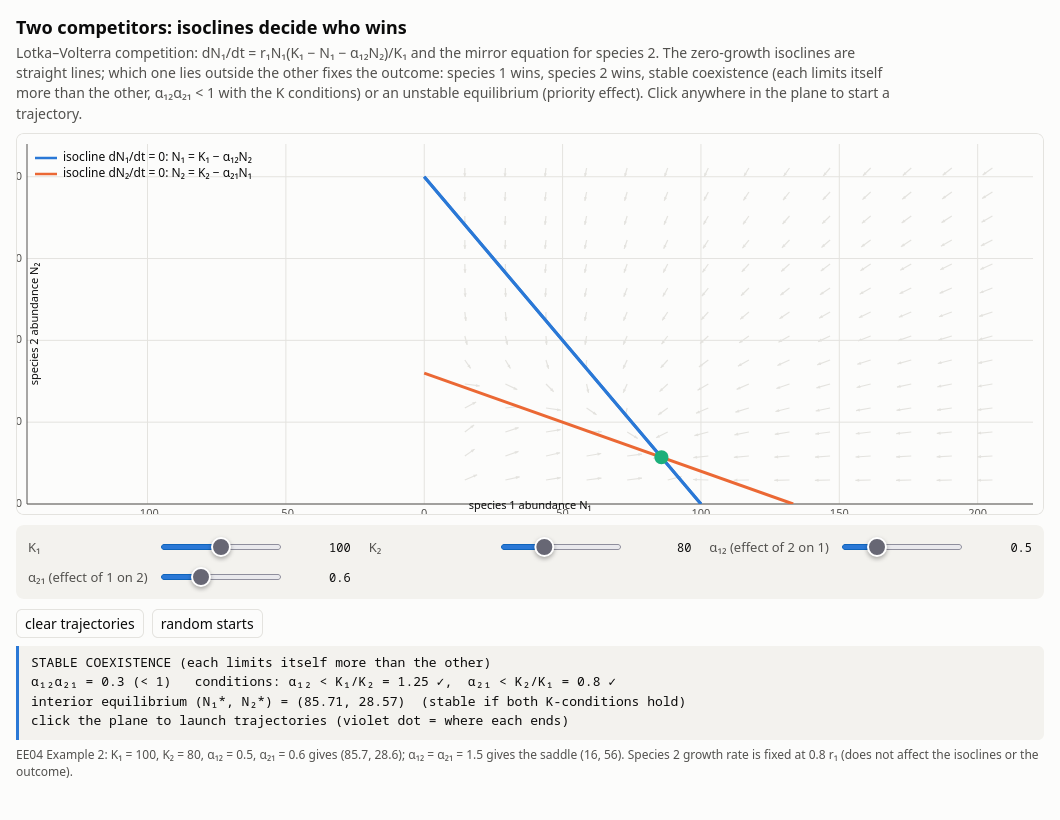
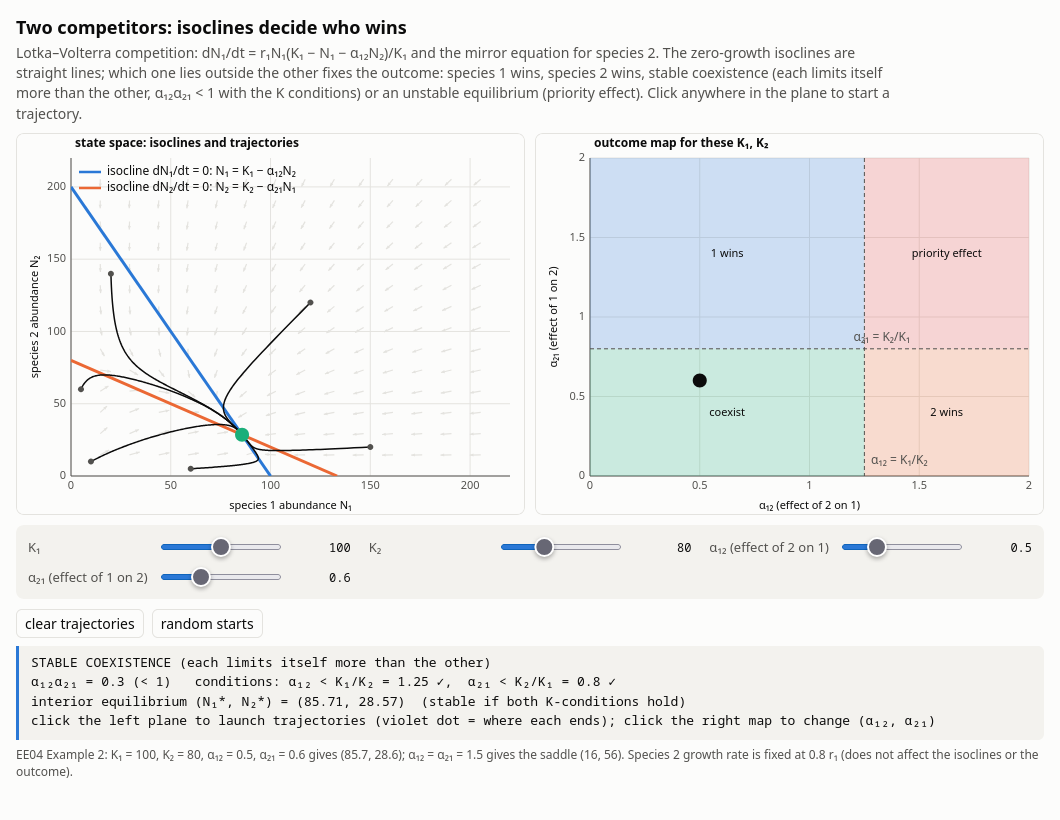
notes: 2026-11-07 05:37

diff --git a/Assets/interactive/ee_competition.html b/Assets/interactive/ee_competition.html
@@ -104,18 +104,18 @@ window.addEventListener('error',e=>{const d=document.createElement('div');d.clas
 
 (function(){
 const META={"title": "Two competitors: isoclines decide who wins", "desc": "Lotka\u2013Volterra competition: dN\u2081/dt = r\u2081N\u2081(K\u2081 \u2212 N\u2081 \u2212 \u03b1\u2081\u2082N\u2082)/K\u2081 and the mirror equation for species 2. The zero-growth isoclines are straight lines; which one lies outside the other fixes the outcome: species 1 wins, species 2 wins, stable coexistence (each limits itself more than the other, \u03b1\u2081\u2082\u03b1\u2082\u2081 < 1 with the K conditions) or an unstable equilibrium (priority effect). Click anywhere in the plane to start a trajectory.", "vault": "EE", "chapters": ["EE04 Competition and Invasions"], "tryit": "K\u2081 = 100, K\u2082 = 80, \u03b1\u2081\u2082 = 0.5, \u03b1\u2082\u2081 = 0.6 \u2192 stable coexistence at (85.7, 28.6). Set both \u03b1 = 1.5 \u2192 saddle at (16, 56): click on either side of the separatrix and watch the winner change.", "id": "ee_competition"};ui.init(META.title,META.desc);
-ui.gridOf(1);const P=ui.canvas(380,{xmin:0,xmax:160,ymin:0,ymax:160,xlabel:'species 1 abundance N₁',ylabel:'species 2 abundance N₂',equal:true});
+ui.gridOf(2);const P=ui.canvas(380,{xmin:0,xmax:160,ymin:0,ymax:160,xlabel:'species 1 abundance N₁',ylabel:'species 2 abundance N₂',title:'state space: isoclines and trajectories'});const Q=ui.canvas(380,{xmin:0,xmax:2,ymin:0,ymax:2,xlabel:'α₁₂ (effect of 2 on 1)',ylabel:'α₂₁ (effect of 1 on 2)',title:'outcome map for these K₁, K₂'});
 const sK1=ui.slider('K₁',40,160,1,100,reset),sK2=ui.slider('K₂',40,160,1,80,reset),s12=ui.slider('α₁₂ (effect of 2 on 1)',0,2,0.01,0.5,reset),s21=ui.slider('α₂₁ (effect of 1 on 2)',0,2,0.01,0.6,reset);
 ui.button('clear trajectories',()=>{trs=[]});ui.button('random starts',()=>{const r=M.rng(Math.floor(Math.random()*1e6));for(let i=0;i<8;i++)addTr(r()*150+5,r()*150+5)});
 const out=ui.readout();let trs=[];
 function f(K1,K2,a12,a21){return(t,y)=>[y[0]*(K1-y[0]-a12*y[1])/K1,0.8*y[1]*(K2-y[1]-a21*y[0])/K2]}
 function addTr(x,y0){const K1=sK1.value,K2=sK2.value,a12=s12.value,a21=s21.value;let y=[x,y0],pts=[[...y]],t=0;const fn=f(K1,K2,a12,a21);for(let i=0;i<2500;i++){y=M.rk4(fn,y,t,0.05);t+=0.05;pts.push([...y]);if(i>2000&&Math.hypot(...fn(0,y))<1e-4)break}trs.push(pts)}
-function reset(){trs=[];draw()}
-P.c.addEventListener('click',e=>{const r=P.c.getBoundingClientRect(),px=e.clientX-r.left,py=e.clientY-r.top;const x=P.invX?P.invX(px):P.o.xmin+(px-P.o.ml)/(P.w-P.o.ml-P.o.mr)*(P.o.xmax-P.o.xmin),y=P.invY?P.invY(py):P.o.ymax-(py-P.o.mt)/(P.h-P.o.mt-P.o.mb)*(P.o.ymax-P.o.ymin);if(x>0&&y>0){addTr(x,y);draw()}});
+function reset(){trs=[];[[10,10],[150,20],[20,140],[120,120],[60,5],[5,60]].forEach(p=>addTr(p[0],p[1]));draw()}
+P.c.addEventListener('click',e=>{const r=P.c.getBoundingClientRect(),x=P.ix(e.clientX-r.left),y=P.iy(e.clientY-r.top);if(x>0&&y>0){addTr(x,y);draw()}});
+Q.c.addEventListener('click',e=>{const r=Q.c.getBoundingClientRect();s12.value=Math.max(0,Math.min(2,Q.ix(e.clientX-r.left)));s21.value=Math.max(0,Math.min(2,Q.iy(e.clientY-r.top)));reset()});
 function draw(){const K1=sK1.value,K2=sK2.value,a12=s12.value,a21=s21.value;const top=Math.max(K1,K2,K1/Math.max(a12,0.01),K2/Math.max(a21,0.01),50);const lim=Math.min(300,top*1.1);P.set({xmax:lim,ymax:lim});P.clear();
  // vector field
  const fn=f(K1,K2,a12,a21);const nn=15;for(let i=1;i<nn;i++)for(let j=1;j<nn;j++){const x=lim*i/nn,y=lim*j/nn,d=fn(0,[x,y]),n=Math.hypot(d[0],d[1])||1;P.arrow(x,y,x+d[0]/n*lim*0.025,y+d[1]/n*lim*0.025,C.grid,1.2,4)}
- P.line([0,K1],[K1/a12,0].map((v,i)=>i?0:K1/Math.max(a12,1e-6)),C.blue,3);P.line([K1,0].slice(0,0),[],C.blue);
  P.line([0,K1],[K1/Math.max(a12,1e-6),0],C.blue,3);P.line([K2/Math.max(a21,1e-6),0],[0,K2],C.orange,3);
  trs.forEach(pts=>{P.line(pts.map(p=>p[0]),pts.map(p=>p[1]),C.ink,1.5);P.dot(pts[0][0],pts[0][1],C.muted,3);const e=pts[pts.length-1];P.dot(e[0],e[1],C.violet,4)});
  // equilibria
@@ -123,8 +123,12 @@ function draw(){const K1=sK1.value,K2=sK2.value,a12=s12.value,a21=s21.value;cons
  let kind;const c1=K1<K2/Math.max(a21,1e-9),c2=K2<K1/Math.max(a12,1e-9);if(c1&&c2)kind='STABLE COEXISTENCE (each limits itself more than the other)';else if(!c1&&!c2)kind='UNSTABLE interior equilibrium: priority effect, the start decides';else if(!c1&&c2)kind='SPECIES 1 WINS';else kind='SPECIES 2 WINS';
  P.legend([['isocline dN₁/dt = 0: N₁ = K₁ − α₁₂N₂',C.blue],['isocline dN₂/dt = 0: N₂ = K₂ − α₂₁N₁',C.orange]],P.o.ml+8,P.o.mt+14);
  if(N1s!==null&&N1s>0&&N2s>0)P.dot(N1s,N2s,D>0?C.aqua:C.red,7);
- out.textContent=`${kind}\nα₁₂α₂₁ = ${M.fmt(a12*a21,3)} (${a12*a21<1?'<':'>'} 1)   conditions: α₁₂ < K₁/K₂ = ${M.fmt(K1/K2,3)} ${a12<K1/K2?'✓':'✗'},  α₂₁ < K₂/K₁ = ${M.fmt(K2/K1,3)} ${a21<K2/K1?'✓':'✗'}\n${N1s!==null&&N1s>0&&N2s>0?'interior equilibrium (N₁*, N₂*) = ('+M.fmt(N1s,4)+', '+M.fmt(N2s,4)+')  '+(D>0?'(stable if both K-conditions hold)':'(saddle)'):'no interior equilibrium'}\nclick the plane to launch trajectories (violet dot = where each ends)`}
-draw();ui.note('EE04 Example 2: K₁ = 100, K₂ = 80, α₁₂ = 0.5, α₂₁ = 0.6 gives (85.7, 28.6); α₁₂ = α₂₁ = 1.5 gives the saddle (16, 56). Species 2 growth rate is fixed at 0.8 r₁ (does not affect the isoclines or the outcome).');
+ drawMap(K1,K2,a12,a21);
+ out.textContent=`${kind}\nα₁₂α₂₁ = ${M.fmt(a12*a21,3)} (${a12*a21<1?'<':'>'} 1)   conditions: α₁₂ < K₁/K₂ = ${M.fmt(K1/K2,3)} ${a12<K1/K2?'✓':'✗'},  α₂₁ < K₂/K₁ = ${M.fmt(K2/K1,3)} ${a21<K2/K1?'✓':'✗'}\n${N1s!==null&&N1s>0&&N2s>0?'interior equilibrium (N₁*, N₂*) = ('+M.fmt(N1s,4)+', '+M.fmt(N2s,4)+')  '+(D>0?'(stable if both K-conditions hold)':'(saddle)'):'no interior equilibrium'}\nclick the left plane to launch trajectories (violet dot = where each ends); click the right map to change (α₁₂, α₂₁)`}
+function drawMap(K1,K2,a12,a21){Q.clear();const g=Q.g,c1=K2/K1,c2=K1/K2;const R=(x0,x1,y0,y1,col,lab)=>{g.fillStyle=col;g.globalAlpha=0.22;g.fillRect(Q.X(x0),Q.Y(y1),Q.X(x1)-Q.X(x0),Q.Y(y0)-Q.Y(y1));g.globalAlpha=1;Q.text(lab,(x0+x1)/2,(y0+y1)/2,C.ink,'center','11px system-ui')};
+ const x1=Math.min(2,c2),y1=Math.min(2,c1);R(0,x1,0,y1,C.aqua,'coexist');R(0,x1,y1,2,C.blue,'1 wins');R(x1,2,0,y1,C.orange,'2 wins');R(x1,2,y1,2,C.red,'priority effect');
+ Q.vline(c2,C.muted);Q.hline(c1,C.muted);Q.dot(a12,a21,C.ink,7);Q.text('α₁₂ = K₁/K₂',c2+0.03,0.1,C.muted);Q.text('α₂₁ = K₂/K₁',1.2,c1+0.07,C.muted)}
+reset();ui.note('EE04 Example 2: K₁ = 100, K₂ = 80, α₁₂ = 0.5, α₂₁ = 0.6 gives (85.7, 28.6); α₁₂ = α₂₁ = 1.5 gives the saddle (16, 56). Species 2 growth rate is fixed at 0.8 r₁ (does not affect the isoclines or the outcome).');
 
 })();
 </script></body></html>

diff --git a/scripts/interactive/tools/ee_competition.js b/scripts/interactive/tools/ee_competition.js
@@ -1,16 +1,16 @@
 //META {"title":"Two competitors: isoclines decide who wins","desc":"Lotka–Volterra competition: dN₁/dt = r₁N₁(K₁ − N₁ − α₁₂N₂)/K₁ and the mirror equation for species 2. The zero-growth isoclines are straight lines; which one lies outside the other fixes the outcome: species 1 wins, species 2 wins, stable coexistence (each limits itself more than the other, α₁₂α₂₁ < 1 with the K conditions) or an unstable equilibrium (priority effect). Click anywhere in the plane to start a trajectory.","vault":"EE","chapters":["EE04 Competition and Invasions"],"tryit":"K₁ = 100, K₂ = 80, α₁₂ = 0.5, α₂₁ = 0.6 → stable coexistence at (85.7, 28.6). Set both α = 1.5 → saddle at (16, 56): click on either side of the separatrix and watch the winner change."}
-ui.gridOf(1);const P=ui.canvas(380,{xmin:0,xmax:160,ymin:0,ymax:160,xlabel:'species 1 abundance N₁',ylabel:'species 2 abundance N₂',equal:true});
+ui.gridOf(2);const P=ui.canvas(380,{xmin:0,xmax:160,ymin:0,ymax:160,xlabel:'species 1 abundance N₁',ylabel:'species 2 abundance N₂',title:'state space: isoclines and trajectories'});const Q=ui.canvas(380,{xmin:0,xmax:2,ymin:0,ymax:2,xlabel:'α₁₂ (effect of 2 on 1)',ylabel:'α₂₁ (effect of 1 on 2)',title:'outcome map for these K₁, K₂'});
 const sK1=ui.slider('K₁',40,160,1,100,reset),sK2=ui.slider('K₂',40,160,1,80,reset),s12=ui.slider('α₁₂ (effect of 2 on 1)',0,2,0.01,0.5,reset),s21=ui.slider('α₂₁ (effect of 1 on 2)',0,2,0.01,0.6,reset);
 ui.button('clear trajectories',()=>{trs=[]});ui.button('random starts',()=>{const r=M.rng(Math.floor(Math.random()*1e6));for(let i=0;i<8;i++)addTr(r()*150+5,r()*150+5)});
 const out=ui.readout();let trs=[];
 function f(K1,K2,a12,a21){return(t,y)=>[y[0]*(K1-y[0]-a12*y[1])/K1,0.8*y[1]*(K2-y[1]-a21*y[0])/K2]}
 function addTr(x,y0){const K1=sK1.value,K2=sK2.value,a12=s12.value,a21=s21.value;let y=[x,y0],pts=[[...y]],t=0;const fn=f(K1,K2,a12,a21);for(let i=0;i<2500;i++){y=M.rk4(fn,y,t,0.05);t+=0.05;pts.push([...y]);if(i>2000&&Math.hypot(...fn(0,y))<1e-4)break}trs.push(pts)}
-function reset(){trs=[];draw()}
-P.c.addEventListener('click',e=>{const r=P.c.getBoundingClientRect(),px=e.clientX-r.left,py=e.clientY-r.top;const x=P.invX?P.invX(px):P.o.xmin+(px-P.o.ml)/(P.w-P.o.ml-P.o.mr)*(P.o.xmax-P.o.xmin),y=P.invY?P.invY(py):P.o.ymax-(py-P.o.mt)/(P.h-P.o.mt-P.o.mb)*(P.o.ymax-P.o.ymin);if(x>0&&y>0){addTr(x,y);draw()}});
+function reset(){trs=[];[[10,10],[150,20],[20,140],[120,120],[60,5],[5,60]].forEach(p=>addTr(p[0],p[1]));draw()}
+P.c.addEventListener('click',e=>{const r=P.c.getBoundingClientRect(),x=P.ix(e.clientX-r.left),y=P.iy(e.clientY-r.top);if(x>0&&y>0){addTr(x,y);draw()}});
+Q.c.addEventListener('click',e=>{const r=Q.c.getBoundingClientRect();s12.value=Math.max(0,Math.min(2,Q.ix(e.clientX-r.left)));s21.value=Math.max(0,Math.min(2,Q.iy(e.clientY-r.top)));reset()});
 function draw(){const K1=sK1.value,K2=sK2.value,a12=s12.value,a21=s21.value;const top=Math.max(K1,K2,K1/Math.max(a12,0.01),K2/Math.max(a21,0.01),50);const lim=Math.min(300,top*1.1);P.set({xmax:lim,ymax:lim});P.clear();
  // vector field
  const fn=f(K1,K2,a12,a21);const nn=15;for(let i=1;i<nn;i++)for(let j=1;j<nn;j++){const x=lim*i/nn,y=lim*j/nn,d=fn(0,[x,y]),n=Math.hypot(d[0],d[1])||1;P.arrow(x,y,x+d[0]/n*lim*0.025,y+d[1]/n*lim*0.025,C.grid,1.2,4)}
- P.line([0,K1],[K1/a12,0].map((v,i)=>i?0:K1/Math.max(a12,1e-6)),C.blue,3);P.line([K1,0].slice(0,0),[],C.blue);
  P.line([0,K1],[K1/Math.max(a12,1e-6),0],C.blue,3);P.line([K2/Math.max(a21,1e-6),0],[0,K2],C.orange,3);
  trs.forEach(pts=>{P.line(pts.map(p=>p[0]),pts.map(p=>p[1]),C.ink,1.5);P.dot(pts[0][0],pts[0][1],C.muted,3);const e=pts[pts.length-1];P.dot(e[0],e[1],C.violet,4)});
  // equilibria
@@ -18,5 +18,9 @@ function draw(){const K1=sK1.value,K2=sK2.value,a12=s12.value,a21=s21.value;cons
  let kind;const c1=K1<K2/Math.max(a21,1e-9),c2=K2<K1/Math.max(a12,1e-9);if(c1&&c2)kind='STABLE COEXISTENCE (each limits itself more than the other)';else if(!c1&&!c2)kind='UNSTABLE interior equilibrium: priority effect, the start decides';else if(!c1&&c2)kind='SPECIES 1 WINS';else kind='SPECIES 2 WINS';
  P.legend([['isocline dN₁/dt = 0: N₁ = K₁ − α₁₂N₂',C.blue],['isocline dN₂/dt = 0: N₂ = K₂ − α₂₁N₁',C.orange]],P.o.ml+8,P.o.mt+14);
  if(N1s!==null&&N1s>0&&N2s>0)P.dot(N1s,N2s,D>0?C.aqua:C.red,7);
- out.textContent=`${kind}\nα₁₂α₂₁ = ${M.fmt(a12*a21,3)} (${a12*a21<1?'<':'>'} 1)   conditions: α₁₂ < K₁/K₂ = ${M.fmt(K1/K2,3)} ${a12<K1/K2?'✓':'✗'},  α₂₁ < K₂/K₁ = ${M.fmt(K2/K1,3)} ${a21<K2/K1?'✓':'✗'}\n${N1s!==null&&N1s>0&&N2s>0?'interior equilibrium (N₁*, N₂*) = ('+M.fmt(N1s,4)+', '+M.fmt(N2s,4)+')  '+(D>0?'(stable if both K-conditions hold)':'(saddle)'):'no interior equilibrium'}\nclick the plane to launch trajectories (violet dot = where each ends)`}
-draw();ui.note('EE04 Example 2: K₁ = 100, K₂ = 80, α₁₂ = 0.5, α₂₁ = 0.6 gives (85.7, 28.6); α₁₂ = α₂₁ = 1.5 gives the saddle (16, 56). Species 2 growth rate is fixed at 0.8 r₁ (does not affect the isoclines or the outcome).');
+ drawMap(K1,K2,a12,a21);
+ out.textContent=`${kind}\nα₁₂α₂₁ = ${M.fmt(a12*a21,3)} (${a12*a21<1?'<':'>'} 1)   conditions: α₁₂ < K₁/K₂ = ${M.fmt(K1/K2,3)} ${a12<K1/K2?'✓':'✗'},  α₂₁ < K₂/K₁ = ${M.fmt(K2/K1,3)} ${a21<K2/K1?'✓':'✗'}\n${N1s!==null&&N1s>0&&N2s>0?'interior equilibrium (N₁*, N₂*) = ('+M.fmt(N1s,4)+', '+M.fmt(N2s,4)+')  '+(D>0?'(stable if both K-conditions hold)':'(saddle)'):'no interior equilibrium'}\nclick the left plane to launch trajectories (violet dot = where each ends); click the right map to change (α₁₂, α₂₁)`}
+function drawMap(K1,K2,a12,a21){Q.clear();const g=Q.g,c1=K2/K1,c2=K1/K2;const R=(x0,x1,y0,y1,col,lab)=>{g.fillStyle=col;g.globalAlpha=0.22;g.fillRect(Q.X(x0),Q.Y(y1),Q.X(x1)-Q.X(x0),Q.Y(y0)-Q.Y(y1));g.globalAlpha=1;Q.text(lab,(x0+x1)/2,(y0+y1)/2,C.ink,'center','11px system-ui')};
+ const x1=Math.min(2,c2),y1=Math.min(2,c1);R(0,x1,0,y1,C.aqua,'coexist');R(0,x1,y1,2,C.blue,'1 wins');R(x1,2,0,y1,C.orange,'2 wins');R(x1,2,y1,2,C.red,'priority effect');
+ Q.vline(c2,C.muted);Q.hline(c1,C.muted);Q.dot(a12,a21,C.ink,7);Q.text('α₁₂ = K₁/K₂',c2+0.03,0.1,C.muted);Q.text('α₂₁ = K₂/K₁',1.2,c1+0.07,C.muted)}
+reset();ui.note('EE04 Example 2: K₁ = 100, K₂ = 80, α₁₂ = 0.5, α₂₁ = 0.6 gives (85.7, 28.6); α₁₂ = α₂₁ = 1.5 gives the saddle (16, 56). Species 2 growth rate is fixed at 0.8 r₁ (does not affect the isoclines or the outcome).');

diff --git a/scripts/interactive/tools/ee_predator_prey.js b/scripts/interactive/tools/ee_predator_prey.js
@@ -1,21 +1,22 @@
-//META {"title":"Predator–prey cycles: closed orbits and damped spirals","desc":"Lotka–Volterra: dH/dt = rH(1 − H/K) − pHP, dP/dt = apHP − mP. With K = ∞ (prey growth exponential) every orbit is a closed curve around (H*, P*) = (m/ap, r/p); a conserved quantity V labels them. Turn on a finite carrying capacity K and the centre becomes a stable spiral: the cycles damp. Left: phase plane with isoclines and the vector field; right: time series, with the predator peak lagging the prey peak.","vault":"EE","chapters":["EE05 Predation"],"tryit":"Defaults r=1, p=0.02, a=0.5, m=0.5 give (H*,P*) = (50,50) and period 8.9 for small cycles; the large orbit from (30,30) has period 9.25. Set K = 200: the equilibrium moves to (50, 37.5), eigenvalues −0.125 ± 0.60i. Double r: predators double, prey unchanged."}
+//META {"title":"Predator–prey cycles: closed orbits and damped spirals","desc":"Lotka–Volterra: dH/dt = rH(1 − H/K) − pHP, dP/dt = apHP − mP. With K = ∞ (prey growth exponential) every orbit is a closed curve around (H*, P*) = (m/ap, r/p); a conserved quantity V labels them. Turn on a finite carrying capacity K and the centre becomes a stable spiral: the cycles damp. Left: phase plane with isoclines and the vector field; right: time series, with the predator peak lagging the prey peak.","vault":"EE","chapters":["EE05 Predation"],"tryit":"Defaults r=1, p=0.02, a=0.5, m=0.5 give (H*,P*) = (50,50) and period 8.9 for small cycles; the large orbit from (30,30) has period 9.26. Set K = 200: the equilibrium moves to (50, 37.5), eigenvalues −0.125 ± 0.60i. Double r: predators double, prey unchanged."}
 ui.gridOf(2);const P1=ui.canvas(340,{xmin:0,xmax:140,ymin:0,ymax:140,xlabel:'prey H',ylabel:'predators P',title:'phase plane'});const P2=ui.canvas(340,{xmin:0,xmax:40,ymin:0,ymax:140,xlabel:'time',ylabel:'abundance',title:'time series'});
 const sr=ui.slider('prey growth r',0.2,2,0.01,1,restart),sp=ui.slider('predation p',0.005,0.05,0.001,0.02,restart),sa=ui.slider('conversion a',0.1,1,0.01,0.5,restart),sm=ui.slider('predator mortality m',0.1,1.5,0.01,0.5,restart),sK=ui.slider('prey carrying capacity K (0 = unlimited)',0,400,5,0,restart),sH=ui.slider('start H₀',5,140,1,30,restart),sP=ui.slider('start P₀',5,140,1,30,restart);
 const out=ui.readout();let traj=[],tmax=0,y,t;
 function f(t_,y_){const r=sr.value,p=sp.value,a=sa.value,m=sm.value,K=sK.value;const H=y_[0],P=y_[1];return[r*H*(K>0?1-H/K:1)-p*H*P,a*p*H*P-m*P]}
 function restart(){y=[sH.value,sP.value];t=0;traj=[[0,y[0],y[1]]]}
 restart();
-function draw(){const r=sr.value,p=sp.value,a=sa.value,m=sm.value,K=sK.value;const Hs=m/(a*p),Ps=K>0?r/p*(1-Hs/K):r/p;const mx=Math.max(140,Hs*2.2,...traj.map(q=>q[1])*1)*1.0,my=Math.max(140,Ps*2.2,...traj.map(q=>q[2]));
- P1.set({xmax:Math.max(140,Math.max(...traj.map(q=>q[1]))*1.1,Hs*2),ymax:Math.max(140,Math.max(...traj.map(q=>q[2]))*1.1,Ps*2)});P1.clear();
+function draw(){const r=sr.value,p=sp.value,a=sa.value,m=sm.value,K=sK.value;const Hs=m/(a*p),Ps=K>0?r/p*(1-Hs/K):r/p; P1.set({xmax:Math.max(140,Math.max(...traj.map(q=>q[1]))*1.1,Hs*2),ymax:Math.max(140,Math.max(...traj.map(q=>q[2]))*1.1,Ps*2)});P1.clear();
  // vector field
  const nx=14,ny=14;for(let i=1;i<nx;i++)for(let j=1;j<ny;j++){const H=P1.o.xmax*i/nx,P=P1.o.ymax*j/ny;const d=f(0,[H,P]);const n=Math.hypot(d[0]/P1.o.xmax,d[1]/P1.o.ymax)||1;const L=0.018;P1.arrow(H,P,H+d[0]/P1.o.xmax/n*L*P1.o.xmax,P+d[1]/P1.o.ymax/n*L*P1.o.ymax,C.grid,1.2,4)}
  // isoclines
- P1.vline(Hs,C.violet);if(K>0)P1.line([0,K],[r/p,0],C.aqua,2.2);else P1.hline(r/p,C.aqua,2.2);
+ P1.vline(Hs,C.violet);if(K>0)P1.line([0,K],[r/p,0],C.aqua,2.2);else P1.line([0,P1.o.xmax],[r/p,r/p],C.aqua,2.2);
  P1.line(traj.map(q=>q[1]),traj.map(q=>q[2]),C.blue,2.2);const e=traj[traj.length-1];P1.dot(e[1],e[2],C.orange,6);P1.dot(Hs,Ps,C.red,6);
  P1.legend([['predator isocline H = m/ap',C.violet],['prey isocline',C.aqua],['trajectory',C.blue]],P1.o.ml+8,P1.o.mt+14);
  P2.set({xmax:Math.max(40,t),ymax:Math.max(100,Math.max(...traj.map(q=>Math.max(q[1],q[2])))*1.1)});P2.clear();P2.line(traj.map(q=>q[0]),traj.map(q=>q[1]),C.blue,2.4);P2.line(traj.map(q=>q[0]),traj.map(q=>q[2]),C.orange,2.4);P2.legend([['prey H',C.blue],['predators P',C.orange]],P2.o.ml+8,P2.o.mt+14);
  const V=a*p*e[1]-m*Math.log(e[1])+p*e[2]-r*Math.log(e[2]);
  let eig='';if(K>0){const tr=-r*Hs/K,det=a*p*p*Hs*Ps;const disc=tr*tr-4*det;eig=disc<0?`eigenvalues ${M.fmt(tr/2,4)} ± ${M.fmt(Math.sqrt(-disc)/2,4)} i (damped spiral, amplitude halves every ${M.fmt(Math.log(2)/Math.abs(tr/2),3)})`:`eigenvalues ${M.fmt((tr+Math.sqrt(disc))/2,4)}, ${M.fmt((tr-Math.sqrt(disc))/2,4)} (node)`}else eig=`eigenvalues ± i√(rm) = ± ${M.fmt(Math.sqrt(r*m),4)} i (neutral), small-cycle period 2π/√(rm) = ${M.fmt(2*Math.PI/Math.sqrt(r*m),4)}`;
  out.textContent=`equilibrium (H*, P*) = (m/ap, ${K>0?'(r/p)(1 − H*/K)':'r/p'}) = (${M.fmt(Hs,4)}, ${M.fmt(Ps,4)})${K>0&&Hs>=K?'  (K < H*: predators cannot persist)':''}\n${eig}\n${K>0?'conserved quantity no longer exists (prey self-limitation damps the orbit)':'V = apH − m ln H + pP − r ln P = '+M.fmt(V,6)+' (constant on the orbit: this is why it closes)'}`}
-loop((dt)=>{const steps=Math.ceil(dt/0.01),h=dt/steps;for(let i=0;i<steps;i++){y=M.rk4(f,y,t,h);t+=h;if(y[0]<1e-6)y[0]=1e-6;if(y[1]<1e-6)y[1]=1e-6}traj.push([t,y[0],y[1]]);if(traj.length>6000)traj.shift();draw()});draw();
-ui.note('EE05: with r = 1, p = 0.02, a = 0.5, m = 0.5 and start (30, 30) the prey range over 19.5–102.5, predators 26.4–84.6, period 9.25, predator peak lags the prey peak by 1.7. With K = 200 the equilibrium is (50, 37.5).');
+function advance(dt){const steps=Math.ceil(dt/0.01),h=dt/steps;for(let i=0;i<steps;i++){y=M.rk4(f,y,t,h);t+=h;if(y[0]<1e-6)y[0]=1e-6;if(y[1]<1e-6)y[1]=1e-6}traj.push([t,y[0],y[1]]);if(traj.length>6000)traj.shift()}
+for(let i=0;i<90;i++)advance(0.2);
+loop((dt)=>{advance(dt);draw()});draw();
+ui.note('EE05: with r = 1, p = 0.02, a = 0.5, m = 0.5 and start (30, 30) the prey range over 19.5–102.5, predators 26.4–84.6, period 9.26, predator peak lags the prey peak by 1.7. With K = 200 the equilibrium is (50, 37.5).');

diff --git a/Assets/interactive/ee_ricker_chaos.html b/Assets/interactive/ee_ricker_chaos.html
@@ -104,7 +104,7 @@ window.addEventListener('error',e=>{const d=document.createElement('div');d.clas
 
 (function(){
 const META={"title": "From a stable point to chaos: the Ricker map", "desc": "n_{t+1} = n_t exp[r(1 \u2212 n_t/K)] with K = 100. The time series, the cobweb diagram (vertical to the curve, horizontal to the 45\u00b0 line) and the bifurcation diagram are linked to one slider r. The fixed point K loses stability at r = 2 (slope 1 \u2212 r reaches \u22121), then 2-, 4-, 8-cycles, chaos from r \u2248 2.69, with periodic windows. Switch on the second run started 10\u207b\u2076 away to see sensitive dependence on initial conditions, and read off the Lyapunov exponent.", "vault": "EE", "chapters": ["EE03 Population Dynamics and Chaos"], "tryit": "r = 1.3 (damped), 2.3 (2-cycle 159.2/40.8), 2.6 (4-cycle), 3.0 (chaos, \u039b = +0.39), 3.6 (periodic window, \u039b < 0). With the second run on at r = 3.0 the two series part after ~35 steps.", "id": "ee_ricker_chaos"};ui.init(META.title,META.desc);
-ui.gridOf(2);const P1=ui.canvas(250,{xmin:0,xmax:60,ymin:0,ymax:300,xlabel:'time t',ylabel:'N_t',title:'time series'});const P2=ui.canvas(250,{xmin:0,xmax:300,ymin:0,ymax:300,xlabel:'N_t',ylabel:'N_{t+1}',title:'cobweb diagram',equal:true});
+ui.gridOf(2);const P1=ui.canvas(250,{xmin:0,xmax:60,ymin:0,ymax:300,xlabel:'time t',ylabel:'N_t',title:'time series'});const P2=ui.canvas(250,{xmin:0,xmax:300,ymin:0,ymax:300,xlabel:'N_t',ylabel:'N_{t+1}',title:'cobweb diagram'});
 ui.gridOf(1);const P3=ui.canvas(230,{xmin:0.5,xmax:3.6,ymin:0,ymax:320,xlabel:'growth rate r',ylabel:'long-run N_t',title:'bifurcation diagram (K = 100)'});
 const sr=ui.slider('growth rate r',0.5,3.6,0.01,2.3,draw),sn=ui.slider('start N₀',5,200,1,20,draw),two=ui.check('second run started 10⁻⁶ higher',false,draw);
 const out=ui.readout();const K=100;
@@ -115,7 +115,7 @@ function draw(){const r=sr.value,n0=sn.value;const T=60,s1=[n0],s2=[n0+1e-6];for
  const mx=Math.max(120,...s1)*1.1;P1.set({ymax:mx});P1.clear();P1.hline(K,C.muted,[4,3]);P1.line(M.range(T+1),s1,C.blue,2.5);P1.dots(M.range(T+1),s1,C.blue,2.5);if(two.value){P1.line(M.range(T+1),s2,C.orange,1.8)}
  P1.legend(two.value?[['run 1',C.blue],['run 2 (N₀ + 10⁻⁶)',C.orange]]:[['N_t',C.blue]],P1.o.ml+8,P1.o.mt+14);
  P2.set({xmax:mx,ymax:mx});P2.clear();P2.fn(x=>x,C.muted,1.5,[4,3]);P2.fn(x=>g(x,r),C.ink,2.8);let x=n0;const wx=[x],wy=[0];for(let i=0;i<40;i++){const y=g(x,r);wx.push(x,y);wy.push(y,y);x=y}P2.line(wx,wy,C.orange,1.2);P2.dot(K,K,C.red,5);
- P3.clear();if(!bif)makeBif();P3.dots(bif.map(p=>p[0]),bif.map(p=>p[1]),C.blue,0.8);P3.vline(r,C.red);[2,2.5265,2.6564,2.6924].forEach(v=>{P3.vline(v,C.grid);P3.text(String(v),v+0.02,305,C.muted,'left','10px system-ui')});
+ P3.clear();if(!bif)makeBif();P3.dots(bif.map(p=>p[0]),bif.map(p=>p[1]),C.blue,0.8);P3.vline(r,C.red);[2,2.5265,2.6564,2.6924].forEach(v=>P3.vline(v,C.grid));P3.text('r = 2',2.02,305,C.muted,'left','10px system-ui');P3.text('2.69 (onset of chaos)',2.71,305,C.muted,'left','10px system-ui');
  const L=lyap(r,n0+0.123);const tail=s1.slice(-12);
  out.textContent=`r = ${M.fmt(r,3)}: slope at the fixed point K is 1 − r = ${M.fmt(1-r,3)} → ${Math.abs(1-r)<1?'stable (|1−r| < 1)':'unstable'}   Lyapunov exponent Λ = ⟨ln|g′|⟩ = ${M.fmt(L,3)} → ${L>0.02?'CHAOS (nearby orbits diverge)':L<-0.02?'periodic / stable (nearby orbits converge)':'at a bifurcation'}\nlast values: ${tail.map(v=>M.fmt(v,4)).join(', ')}${two.value?'\nseparation |run1 − run2| at t = 60: '+M.fmt(Math.abs(s1[T]-s2[T]),3)+' (initial 1e-6)':''}`}
 draw();ui.note('EE03: thresholds r = 2 (1→2), 2.5265 (2→4), 2.6564 (4→8), accumulation at 2.6924; Λ(1.3) = −1.20, Λ(2.3) = −0.90, Λ(2.6) = −0.58, Λ(3.0) = +0.39 (grey lines on the bifurcation diagram). The cobweb follows the orbit for 40 steps.');

diff --git a/scripts/interactive/tools/ee_ricker_chaos.js b/scripts/interactive/tools/ee_ricker_chaos.js
@@ -1,5 +1,5 @@
 //META {"title":"From a stable point to chaos: the Ricker map","desc":"n_{t+1} = n_t exp[r(1 − n_t/K)] with K = 100. The time series, the cobweb diagram (vertical to the curve, horizontal to the 45° line) and the bifurcation diagram are linked to one slider r. The fixed point K loses stability at r = 2 (slope 1 − r reaches −1), then 2-, 4-, 8-cycles, chaos from r ≈ 2.69, with periodic windows. Switch on the second run started 10⁻⁶ away to see sensitive dependence on initial conditions, and read off the Lyapunov exponent.","vault":"EE","chapters":["EE03 Population Dynamics and Chaos"],"tryit":"r = 1.3 (damped), 2.3 (2-cycle 159.2/40.8), 2.6 (4-cycle), 3.0 (chaos, Λ = +0.39), 3.6 (periodic window, Λ < 0). With the second run on at r = 3.0 the two series part after ~35 steps."}
-ui.gridOf(2);const P1=ui.canvas(250,{xmin:0,xmax:60,ymin:0,ymax:300,xlabel:'time t',ylabel:'N_t',title:'time series'});const P2=ui.canvas(250,{xmin:0,xmax:300,ymin:0,ymax:300,xlabel:'N_t',ylabel:'N_{t+1}',title:'cobweb diagram',equal:true});
+ui.gridOf(2);const P1=ui.canvas(250,{xmin:0,xmax:60,ymin:0,ymax:300,xlabel:'time t',ylabel:'N_t',title:'time series'});const P2=ui.canvas(250,{xmin:0,xmax:300,ymin:0,ymax:300,xlabel:'N_t',ylabel:'N_{t+1}',title:'cobweb diagram'});
 ui.gridOf(1);const P3=ui.canvas(230,{xmin:0.5,xmax:3.6,ymin:0,ymax:320,xlabel:'growth rate r',ylabel:'long-run N_t',title:'bifurcation diagram (K = 100)'});
 const sr=ui.slider('growth rate r',0.5,3.6,0.01,2.3,draw),sn=ui.slider('start N₀',5,200,1,20,draw),two=ui.check('second run started 10⁻⁶ higher',false,draw);
 const out=ui.readout();const K=100;
@@ -10,7 +10,7 @@ function draw(){const r=sr.value,n0=sn.value;const T=60,s1=[n0],s2=[n0+1e-6];for
  const mx=Math.max(120,...s1)*1.1;P1.set({ymax:mx});P1.clear();P1.hline(K,C.muted,[4,3]);P1.line(M.range(T+1),s1,C.blue,2.5);P1.dots(M.range(T+1),s1,C.blue,2.5);if(two.value){P1.line(M.range(T+1),s2,C.orange,1.8)}
  P1.legend(two.value?[['run 1',C.blue],['run 2 (N₀ + 10⁻⁶)',C.orange]]:[['N_t',C.blue]],P1.o.ml+8,P1.o.mt+14);
  P2.set({xmax:mx,ymax:mx});P2.clear();P2.fn(x=>x,C.muted,1.5,[4,3]);P2.fn(x=>g(x,r),C.ink,2.8);let x=n0;const wx=[x],wy=[0];for(let i=0;i<40;i++){const y=g(x,r);wx.push(x,y);wy.push(y,y);x=y}P2.line(wx,wy,C.orange,1.2);P2.dot(K,K,C.red,5);
- P3.clear();if(!bif)makeBif();P3.dots(bif.map(p=>p[0]),bif.map(p=>p[1]),C.blue,0.8);P3.vline(r,C.red);[2,2.5265,2.6564,2.6924].forEach(v=>{P3.vline(v,C.grid);P3.text(String(v),v+0.02,305,C.muted,'left','10px system-ui')});
+ P3.clear();if(!bif)makeBif();P3.dots(bif.map(p=>p[0]),bif.map(p=>p[1]),C.blue,0.8);P3.vline(r,C.red);[2,2.5265,2.6564,2.6924].forEach(v=>P3.vline(v,C.grid));P3.text('r = 2',2.02,305,C.muted,'left','10px system-ui');P3.text('2.69 (onset of chaos)',2.71,305,C.muted,'left','10px system-ui');
  const L=lyap(r,n0+0.123);const tail=s1.slice(-12);
  out.textContent=`r = ${M.fmt(r,3)}: slope at the fixed point K is 1 − r = ${M.fmt(1-r,3)} → ${Math.abs(1-r)<1?'stable (|1−r| < 1)':'unstable'}   Lyapunov exponent Λ = ⟨ln|g′|⟩ = ${M.fmt(L,3)} → ${L>0.02?'CHAOS (nearby orbits diverge)':L<-0.02?'periodic / stable (nearby orbits converge)':'at a bifurcation'}\nlast values: ${tail.map(v=>M.fmt(v,4)).join(', ')}${two.value?'\nseparation |run1 − run2| at t = 60: '+M.fmt(Math.abs(s1[T]-s2[T]),3)+' (initial 1e-6)':''}`}
 draw();ui.note('EE03: thresholds r = 2 (1→2), 2.5265 (2→4), 2.6564 (4→8), accumulation at 2.6924; Λ(1.3) = −1.20, Λ(2.3) = −0.90, Λ(2.6) = −0.58, Λ(3.0) = +0.39 (grey lines on the bifurcation diagram). The cobweb follows the orbit for 40 steps.');

diff --git a/Assets/interactive/ee_predator_prey.html b/Assets/interactive/ee_predator_prey.html
@@ -110,12 +110,11 @@ const out=ui.readout();let traj=[],tmax=0,y,t;
 function f(t_,y_){const r=sr.value,p=sp.value,a=sa.value,m=sm.value,K=sK.value;const H=y_[0],P=y_[1];return[r*H*(K>0?1-H/K:1)-p*H*P,a*p*H*P-m*P]}
 function restart(){y=[sH.value,sP.value];t=0;traj=[[0,y[0],y[1]]]}
 restart();
-function draw(){const r=sr.value,p=sp.value,a=sa.value,m=sm.value,K=sK.value;const Hs=m/(a*p),Ps=K>0?r/p*(1-Hs/K):r/p;const mx=Math.max(140,Hs*2.2,...traj.map(q=>q[1])*1)*1.0,my=Math.max(140,Ps*2.2,...traj.map(q=>q[2]));
- P1.set({xmax:Math.max(140,Math.max(...traj.map(q=>q[1]))*1.1,Hs*2),ymax:Math.max(140,Math.max(...traj.map(q=>q[2]))*1.1,Ps*2)});P1.clear();
+function draw(){const r=sr.value,p=sp.value,a=sa.value,m=sm.value,K=sK.value;const Hs=m/(a*p),Ps=K>0?r/p*(1-Hs/K):r/p; P1.set({xmax:Math.max(140,Math.max(...traj.map(q=>q[1]))*1.1,Hs*2),ymax:Math.max(140,Math.max(...traj.map(q=>q[2]))*1.1,Ps*2)});P1.clear();
  // vector field
  const nx=14,ny=14;for(let i=1;i<nx;i++)for(let j=1;j<ny;j++){const H=P1.o.xmax*i/nx,P=P1.o.ymax*j/ny;const d=f(0,[H,P]);const n=Math.hypot(d[0]/P1.o.xmax,d[1]/P1.o.ymax)||1;const L=0.018;P1.arrow(H,P,H+d[0]/P1.o.xmax/n*L*P1.o.xmax,P+d[1]/P1.o.ymax/n*L*P1.o.ymax,C.grid,1.2,4)}
  // isoclines
- P1.vline(Hs,C.violet);if(K>0)P1.line([0,K],[r/p,0],C.aqua,2.2);else P1.hline(r/p,C.aqua,2.2);
+ P1.vline(Hs,C.violet);if(K>0)P1.line([0,K],[r/p,0],C.aqua,2.2);else P1.line([0,P1.o.xmax],[r/p,r/p],C.aqua,2.2);
  P1.line(traj.map(q=>q[1]),traj.map(q=>q[2]),C.blue,2.2);const e=traj[traj.length-1];P1.dot(e[1],e[2],C.orange,6);P1.dot(Hs,Ps,C.red,6);
  P1.legend([['predator isocline H = m/ap',C.violet],['prey isocline',C.aqua],['trajectory',C.blue]],P1.o.ml+8,P1.o.mt+14);
  P2.set({xmax:Math.max(40,t),ymax:Math.max(100,Math.max(...traj.map(q=>Math.max(q[1],q[2])))*1.1)});P2.clear();P2.line(traj.map(q=>q[0]),traj.map(q=>q[1]),C.blue,2.4);P2.line(traj.map(q=>q[0]),traj.map(q=>q[2]),C.orange,2.4);P2.legend([['prey H',C.blue],['predators P',C.orange]],P2.o.ml+8,P2.o.mt+14);

diff --git a/introduction-to-climate-science/books/t2m-hourly.md b/introduction-to-climate-science/books/t2m-hourly.md
@@ -598,4 +598,5 @@ Its concepts point here (Seen in), not to the class note it came with.
 - (584/626): (none new)
 - (585/626): (none new)
 - (586/626): (none new)
+- (587/626): (none new)
 <!-- /kurooto:source -->
